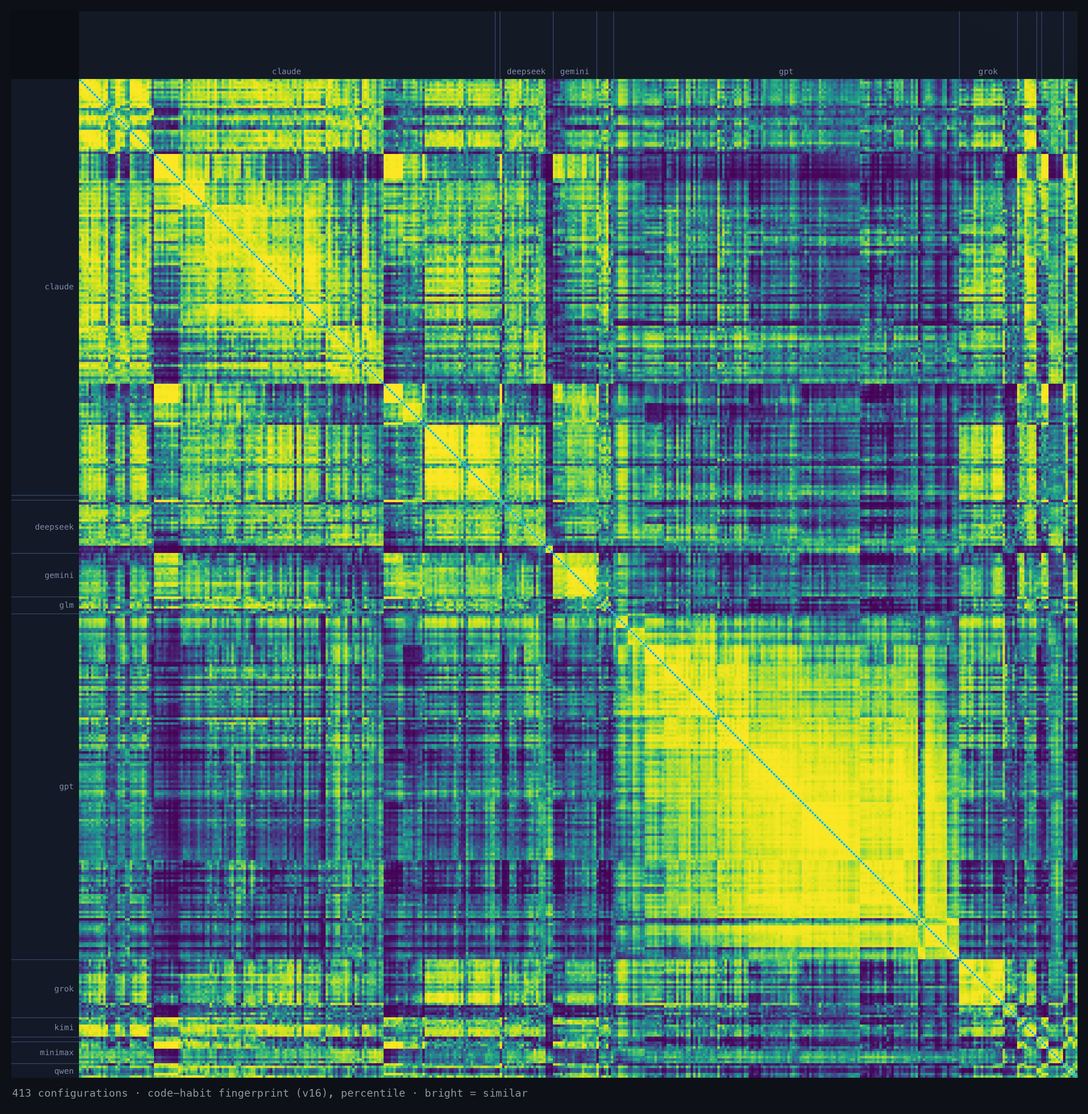
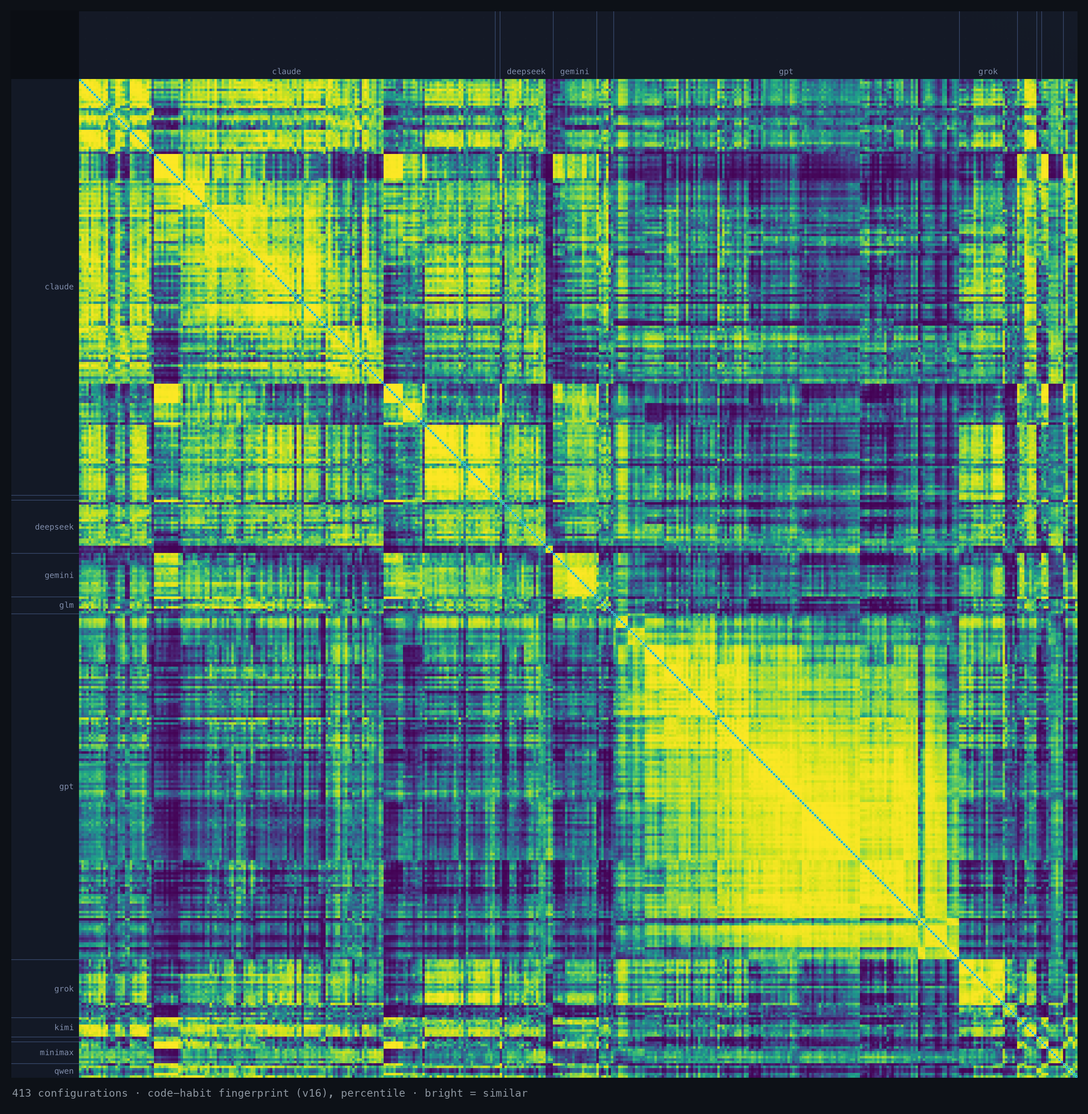
align public artifacts with the 599-config board (Kimi K3.1 Pro API arm)
Figures restated on the new set; matrix image recaptured; the dataset pack
link points at the 2026-10-24 pack.

diff --git a/README.zh.md b/README.zh.md
@@ -43,7 +43,7 @@ MIT
 ## 这张地图
 
 <div align="center">
-<img src="docs/matrix.png" alt="config 对 config 代码习惯指纹热力图(596 config 集的 413 config harness 视图)" width="82%">
+<img src="docs/matrix.png" alt="config 对 config 代码习惯指纹热力图(599 config 集的 413 config harness 视图)" width="82%">
 </div>
 
 每个被测 configuration 对上其余每一个,用的是代码习惯指纹。亮 = 相似,暗 = 分化。对角线上的亮块是各**模型家族**在自我聚类;那条细亮对角线是每个 config 的**自一致性**(一个模型和它*自己*重跑之间有多像)。这里的相似度是**测量,不是质量分** —— 它只刻画收敛,别无其他。
@@ -52,27 +52,27 @@ MIT
 
 > **这个数是什么。** 每一对 configuration 在十条代码通道上比较 —— token shingle、winnowing 指纹、特征集合、JS 语法树、CSS 属性与取值、布局、命名、颜色字面量、语义标记。先去掉卡片体积的影响:原始相似度取决于两张卡有多长,所以每一对都和"同样两种体积的配对"的平均值比较。再扣掉每个 config"和谁都有点像"的四分之一,按"这条通道多能区分模型"学出来的权重合并,最后显示为**在全部跨配对中的百分位**:0.50 是两个不同厂商的一对典型配对,同一模型的两个 config 大约在 0.97。像素是单独的**外观**视角,不进这个分数;**风格**视角只看代码里写出来的样子(颜色、CSS 取值、布局、命名、语义标记)。百分位相对于当前集合,集合变了就重新拟合。
 >
-> 为什么看代码不看像素:在按模型留出的交叉验证里,指纹认出同一模型的 **AUC 是 0.92**,认出同一家族 **0.74**,跨 effort 档认出同一模型 **0.91**;风格视角是 **0.84 / 0.67**,外观视角只有 **0.73 / 0.57**,旧的全通道等权合并是 **0.87 / 0.68**。卡片*长什么样*,各家越来越趋同;*怎么写*,则不然。
+> 为什么看代码不看像素:在按模型留出的交叉验证里,指纹认出同一模型的 **AUC 是 0.92**,认出同一家族 **0.73**,跨 effort 档认出同一模型 **0.91**;风格视角是 **0.84 / 0.67**,外观视角只有 **0.73 / 0.57**,旧的全通道等权合并是 **0.87 / 0.68**。卡片*长什么样*,各家越来越趋同;*怎么写*,则不然。
 >
 > **一处更正。** 这个分数的第一版(v15,上线了几天)把每个 config"和谁都像"的部分整个扣掉。这会把和谁都不像的 config —— 多是又长又高 effort 的卡 —— 推到一起,而这里发布过的两条发现正建立在它上面:高 effort 的 Claude 和 GPT 写法趋同,以及 DeepSeek V4.1 落在这个"前沿区"。直接处理卡片体积之后,两条都不成立,已撤回。方法论页有完整对比。
 
-下面的数字都是 596 个 configuration 集上的百分位,给两个数时是 `P-min` / `P-q`。是信号不是证明:单一 prompt 家族,而且有些模型 config 很少 —— 这些都标出来了。下面每一条在我们测过的、认人能力不低于它的各种评分方案下都成立,不只是这里显示的这一种。
+下面的数字都是 599 个 configuration 集上的百分位,给两个数时是 `P-min` / `P-q`。是信号不是证明:单一 prompt 家族,而且有些模型 config 很少 —— 这些都标出来了。下面每一条在我们测过的、认人能力不低于它的各种评分方案下都成立,不只是这里显示的这一种。
 
 - **家族是真实的分组。** 一个 config 和自己重跑最像(`P-min` 上 **0.94**),和自家家族次之(**0.70**),和别家最不像(**0.44**)。
-- **Claude 2025 年的写法,比 Claude 自己活得久。** Claude Sonnet 4 / 4.5、Opus 4.5、Haiku 4.5 和 MiniMax M2.1–M2.7、豆包 Seed 2.1 Pro、Grok 4.3、DeepSeek V3.2、Qwen3-Coder-Next、Gemini 3 Flash / 3.1 Pro 组成一个紧密的簇:跨厂商配对在两个 prompt 上是 **0.87–1.00**,MiniMax 是 **0.98 / 0.98** —— 和同一模型的两个 config 一样近 —— 跨 harness、跨 effort、十条代码通道全部一致。Claude 自己却走开了:Claude 4.5 对 Claude Opus 4.8 / Claude 5 只有 **0.22 / 0.14**,比两个不相干的厂商还远。一行标志性代码 `const today = new Date().toISOString().split('T')[0];` 出现在 63% 的 Claude Sonnet 4/4.5 卡、34% 的其他成员卡里,而 571 张 Claude Opus 4.8+ 卡一张都没有。同时期的 GPT 从未加入。
-- **有的厂商换代就换了一手写法。** DeepSeek V4.1 对所有更早的 DeepSeek:**0.52 / 0.46** —— 相当于不相干的一对 —— 而它自己的两个构建之间是 **0.75 / 0.74**。Kimi K3 对 Kimi K2.x:**0.53 / 0.63**;K3 反而更靠近 Claude Fable 5 / Opus 4.8(**0.89 / 0.82**,400+ 个 config 对)。GPT-6 对 GPT-5.x 是 **0.75 / 0.72**,普通的同家族水平。
+- **Claude 2025 年的写法,比 Claude 自己活得久。** Claude Sonnet 4 / 4.5、Opus 4.5、Haiku 4.5 和 MiniMax M2.1–M2.7、豆包 Seed 2.1 Pro、Grok 4.3、DeepSeek V3.2、Qwen3-Coder-Next、Gemini 3 Flash / 3.1 Pro 组成一个紧密的簇:跨厂商配对在两个 prompt 上是 **0.87–1.00**,MiniMax 是 **0.98 / 0.98** —— 和同一模型的两个 config 一样近 —— 跨 harness、跨 effort、十条代码通道全部一致。Claude 自己却走开了:Claude 4.5 对 Claude Opus 4.8 / Claude 5 只有 **0.23 / 0.14**,比两个不相干的厂商还远。一行标志性代码 `const today = new Date().toISOString().split('T')[0];` 出现在 63% 的 Claude Sonnet 4/4.5 卡、34% 的其他成员卡里,而 571 张 Claude Opus 4.8+ 卡一张都没有。同时期的 GPT 从未加入。
+- **有的厂商换代就换了一手写法。** DeepSeek V4.1 对所有更早的 DeepSeek:**0.52 / 0.46** —— 相当于不相干的一对 —— 而它自己的两个构建之间是 **0.75 / 0.74**。Kimi K3 对 Kimi K2.x:**0.54 / 0.63**;K3 反而更靠近 Claude Fable 5 / Opus 4.8(**0.90 / 0.82**,400+ 个 config 对)。GPT-6 对 GPT-5.x 是 **0.75 / 0.72**,普通的同家族水平。
 - **高 effort 写得更"防御"。** 直接数卡片里的代码:`prefers-reduced-motion` 处理、用 `AbortController` 中止过期请求,出现在 55–69% 的高 effort(xhigh 及以上)Claude Opus 5.x 和 GPT Sol 卡里,低 effort 的 GPT Sol 卡只有 0–2%。DeepSeek V4.1 1017 的 API 卡有 25–33% 这样写,DeepSeek 自家 dsh harness 出的卡是 88%。在整份代码的指纹上,这**并不**让这些模型变得相像 —— 这是三种写法,不是共同的风格。
 - **代码是模型写的,不是 harness 写的。** 同一模型同一 effort 换一个 harness,是 **0.99 / 0.99** —— 和它自己重跑一样(**0.98 / 0.99**)—— 两个不同家族的模型共用一个 harness 只多 5 个点(**0.48** 对 **0.43**),而"同一模型"和"不同厂商"之间差了约 50 个点。harness 真正改变的是体量。
-- **有些模型和自己都不像。** `deepseek-v4-flash-vision-exp @high`(`P-min` 上 **0.35**)、`kimi-k2.7-code`(**0.43**)和 `kimi-k3 @high`(**0.48 / 0.46**)自一致性最低 —— 多数重跑画得都不一样。全集有 110 个 config 拿得到读数:它需要同一 config 在同一变体下有好几次重跑。
+- **有些模型和自己都不像。** `deepseek-v4-flash-vision-exp @high`(`P-min` 上 **0.36**)、`kimi-k2.7-code`(**0.43**)和 `kimi-k3 @high`(**0.47 / 0.46**)自一致性最低 —— 多数重跑画得都不一样。全集有 113 个 config 拿得到读数:它需要同一 config 在同一变体下有好几次重跑。
 
 **值得一提的配对** —— 信号强,但样本小:
 
 - **Qwen3.8-Max-Preview 写得像 Claude Opus 4.6**(**0.99 / 0.99**,比像任何 Qwen 都近),连 HTML 转义 helper `var d = document.createElement('div')` 都一样 —— 64% 的 Opus 4.6 卡有它,别处几乎没有。只有一个 config、4 张卡。MiMo-V2.5-Pro 也有同样的拉力(**0.92 / 0.90**,66 个 config 对)。
-- **Cursor 的 Composer 2.5 写得像 Grok 4.5**(**0.99 / 0.98**,跨四个 Grok harness),CSS 词汇一模一样(`--bg-deep`、`--card-bg: rgba(255,255,255,0.07)`);`--bg-deep` 在其余 2,499 张卡里只出现 3 次。只有一个 config、8 张卡。
+- **Cursor 的 Composer 2.5 写得像 Grok 4.5**(**0.99 / 0.98**,跨四个 Grok harness),CSS 词汇一模一样(`--bg-deep`、`--card-bg: rgba(255,255,255,0.07)`);`--bg-deep` 在其余 2,523 张卡里只出现 3 次。只有一个 config、8 张卡。
 
 **厂商在固定型号名下换掉了模型 —— 几把尺子对此意见不一。** DeepSeek 于 2026-07-31 对 `deepseek-v4-flash` 重做了 post-training,API 型号名不变(官方原话:架构与参数量不变,"only re-post-trained")。我们手上有一份 **2026-07-19** 的采集,正好在更新之前,于是两个纪元并排留在集合里。
 
-在**代码指纹**上,这次变化几乎看不出来:`high` 档两个纪元互相是 **0.90 / 0.93**,而各自重跑在 **0.95–0.99**;`max` 档互相是 **0.91 / 0.93**,重跑是 **0.89–0.96** —— 落在噪声里。
+在**代码指纹**上,这次变化几乎看不出来:`high` 档两个纪元互相是 **0.90 / 0.93**,而各自重跑在 **0.95–0.99**;`max` 档互相是 **0.91 / 0.94**,重跑是 **0.89–0.96** —— 落在噪声里。
 
 但在**输出体积**这条轴上,同一个变化明显到无法忽视。**同一个 effort 档位**下,新纪元的 completion token 涨了 **2–4 倍** —— `high`/`P-min` 中位数 6,546 → 25,972(**4.0×**),`high`/`P-q` 12,376 → 52,332(**4.2×**)—— 而且四格里有三格两个纪元的 token 区间**完全不相交**(逐 slot 两两比较,P(新 > 旧) = **0.961**)。它那两个失败的 slot 正是同一效应的尾巴:写到撑破厂商 65,536 的输出上限还没收尾。
 
@@ -130,8 +130,8 @@ cd site && npm install && npm run dev   # http://localhost:3000
 
 **完整集**可在线浏览,也能作为单个 pack 下载:
 
-- **完整数据集** → <https://weathercard.secondfirst.ai/downloads/wcb-full-dataset-2026-10-20.tar.gz>
-  (~1.7 GB,sha256 `de905e7f…d652fe`)。解压出 `2026-07-19--unified/` + `index.json`;把 `WCB_DATA_ROOT` 指向解压目录即可在本地跑整套。
+- **完整数据集** → <https://weathercard.secondfirst.ai/downloads/wcb-full-dataset-2026-10-24.tar.gz>
+  (~1.8 GB,sha256 `ddf0cabb…196c39`)。解压出 `2026-07-19--unified/` + `index.json`;把 `WCB_DATA_ROOT` 指向解压目录即可在本地跑整套。
 
 ## 目录
 

diff --git a/README.md b/README.md
@@ -62,7 +62,7 @@ they describe *how the code is written*, never where a model came from.
 ## The map
 
 <div align="center">
-<img src="docs/matrix.png" alt="config-vs-config code-habit fingerprint heatmap (413-config harness view of the 596-config set)" width="82%">
+<img src="docs/matrix.png" alt="config-vs-config code-habit fingerprint heatmap (413-config harness view of the 599-config set)" width="82%">
 </div>
 
 Every measured configuration against every other, on the code-habit fingerprint.
@@ -88,7 +88,7 @@ here is a **measurement, not a quality score** — it captures convergence, noth
 > relative to the current set and are refitted when it changes.
 >
 > Why code and not pixels: in leave-models-out cross-validation the fingerprint
-> recognises the same model at **AUC 0.92**, the same family at **0.74**, and the
+> recognises the same model at **AUC 0.92**, the same family at **0.73**, and the
 > same model *across effort levels* at **0.91**; the style view manages **0.84 /
 > 0.67**, the looks view **0.73 / 0.57**, and the old equal-weight merge of every
 > channel **0.87 / 0.68**. How a card
@@ -101,7 +101,7 @@ here is a **measurement, not a quality score** — it captures convergence, noth
 > that DeepSeek V4.1 sits in that "frontier zone". With card size handled directly
 > neither holds, and both are withdrawn. The methodology page has the comparison.
 
-All figures are percentiles on the 596-configuration set, `P-min` / `P-q` where both
+All figures are percentiles on the 599-configuration set, `P-min` / `P-q` where both
 are given. Signals, not proof: one prompt family, and some models have few configs —
 those are marked. Every finding below holds under each of the scoring variants we
 tested that identify models at least as well as this one, not just the one shown.
@@ -114,15 +114,15 @@ tested that identify models at least as well as this one, not just the one shown
   4.3, DeepSeek V3.2, Qwen3-Coder-Next and Gemini 3 Flash / 3.1 Pro: cross-lab pairs
   score **0.87–1.00** on both prompts, MiniMax at **0.98 / 0.98** — as close as two
   configs of one model — across harnesses, efforts and all ten code channels. Claude
-  itself moved on: Claude 4.5 against Claude Opus 4.8 / Claude 5 scores **0.22 /
+  itself moved on: Claude 4.5 against Claude Opus 4.8 / Claude 5 scores **0.23 /
   0.14**, farther apart than two unrelated labs. One telltale line,
   `const today = new Date().toISOString().split('T')[0];`, is in 63% of Claude Sonnet
   4/4.5 cards, 34% of the other members' cards, and in none of 571 Claude Opus 4.8+
   cards. GPT models of the same period never joined.
 - **Some labs change hands between generations.** DeepSeek V4.1 against every earlier
   DeepSeek: **0.52 / 0.46** — an unrelated pair — while its own two builds agree at
-  **0.75 / 0.74**. Kimi K3 against Kimi K2.x: **0.53 / 0.63**; K3 sits closer to Claude
-  Fable 5 / Opus 4.8 (**0.89 / 0.82**, 400+ config pairs). GPT-6 against GPT-5.x stays
+  **0.75 / 0.74**. Kimi K3 against Kimi K2.x: **0.54 / 0.63**; K3 sits closer to Claude
+  Fable 5 / Opus 4.8 (**0.90 / 0.82**, 400+ config pairs). GPT-6 against GPT-5.x stays
   at **0.75 / 0.72**, an ordinary same-family level.
 - **High effort writes defensively.** Counted directly in the cards: `prefers-reduced-motion`
   handling and aborting stale requests with `AbortController` appear in 55–69% of
@@ -137,8 +137,8 @@ tested that identify models at least as well as this one, not just the one shown
   from sharing a harness (**0.48** vs **0.43**), against a gap of about 50 between
   "same model" and "different lab". What the harness does move is the volume.
 - **Some models barely agree with themselves.** `deepseek-v4-flash-vision-exp @high`
-  (**0.35** on `P-min`), `kimi-k2.7-code` (**0.43**) and `kimi-k3 @high` (**0.48 /
-  0.46**) have the lowest self-consistency — a different card most re-runs. 110
+  (**0.36** on `P-min`), `kimi-k2.7-code` (**0.43**) and `kimi-k3 @high` (**0.47 /
+  0.46**) have the lowest self-consistency — a different card most re-runs. 113
   configs have a reading at all: it needs several re-runs of one config in one variant.
 
 **Notable pairs** — strong signals on small samples:
@@ -149,7 +149,7 @@ tested that identify models at least as well as this one, not just the one shown
   MiMo-V2.5-Pro shows the same pull (**0.92 / 0.90**, 66 config pairs).
 - **Cursor's Composer 2.5 writes like Grok 4.5** (**0.99 / 0.98**, across four Grok
   harnesses), sharing its exact CSS vocabulary (`--bg-deep`,
-  `--card-bg: rgba(255,255,255,0.07)`); `--bg-deep` appears in 3 of the other 2,499
+  `--card-bg: rgba(255,255,255,0.07)`); `--bg-deep` appears in 3 of the other 2,523
   cards. One config, 8 cards.
 
 **A vendor changed a model under a fixed name — and the instruments disagreed about
@@ -160,7 +160,7 @@ side.
 
 On the **code fingerprint** the change barely registers: at `high` the two epochs
 score **0.90 / 0.93** against each other while each epoch's own re-runs sit at
-**0.95–0.99**; at `max` they score **0.91 / 0.93** against re-runs of **0.89–0.96** —
+**0.95–0.99**; at `max` they score **0.91 / 0.94** against re-runs of **0.89–0.96** —
 inside noise.
 
 On the **output-volume** axis the same change is unmissable. At an identical effort
@@ -238,8 +238,8 @@ so the repo ships a **flagship subset** — one canonical configuration per fron
 
 The **full set** is browsable live, and downloadable as a single pack:
 
-- **Full dataset** → <https://weathercard.secondfirst.ai/downloads/wcb-full-dataset-2026-10-20.tar.gz>
-  (~1.7 GB, sha256 `de905e7f…d652fe`). Extracts to `2026-07-19--unified/` +
+- **Full dataset** → <https://weathercard.secondfirst.ai/downloads/wcb-full-dataset-2026-10-24.tar.gz>
+  (~1.8 GB, sha256 `ddf0cabb…196c39`). Extracts to `2026-07-19--unified/` +
   `index.json`; point `WCB_DATA_ROOT` at the extracted directory to serve the
   whole set locally.
 
